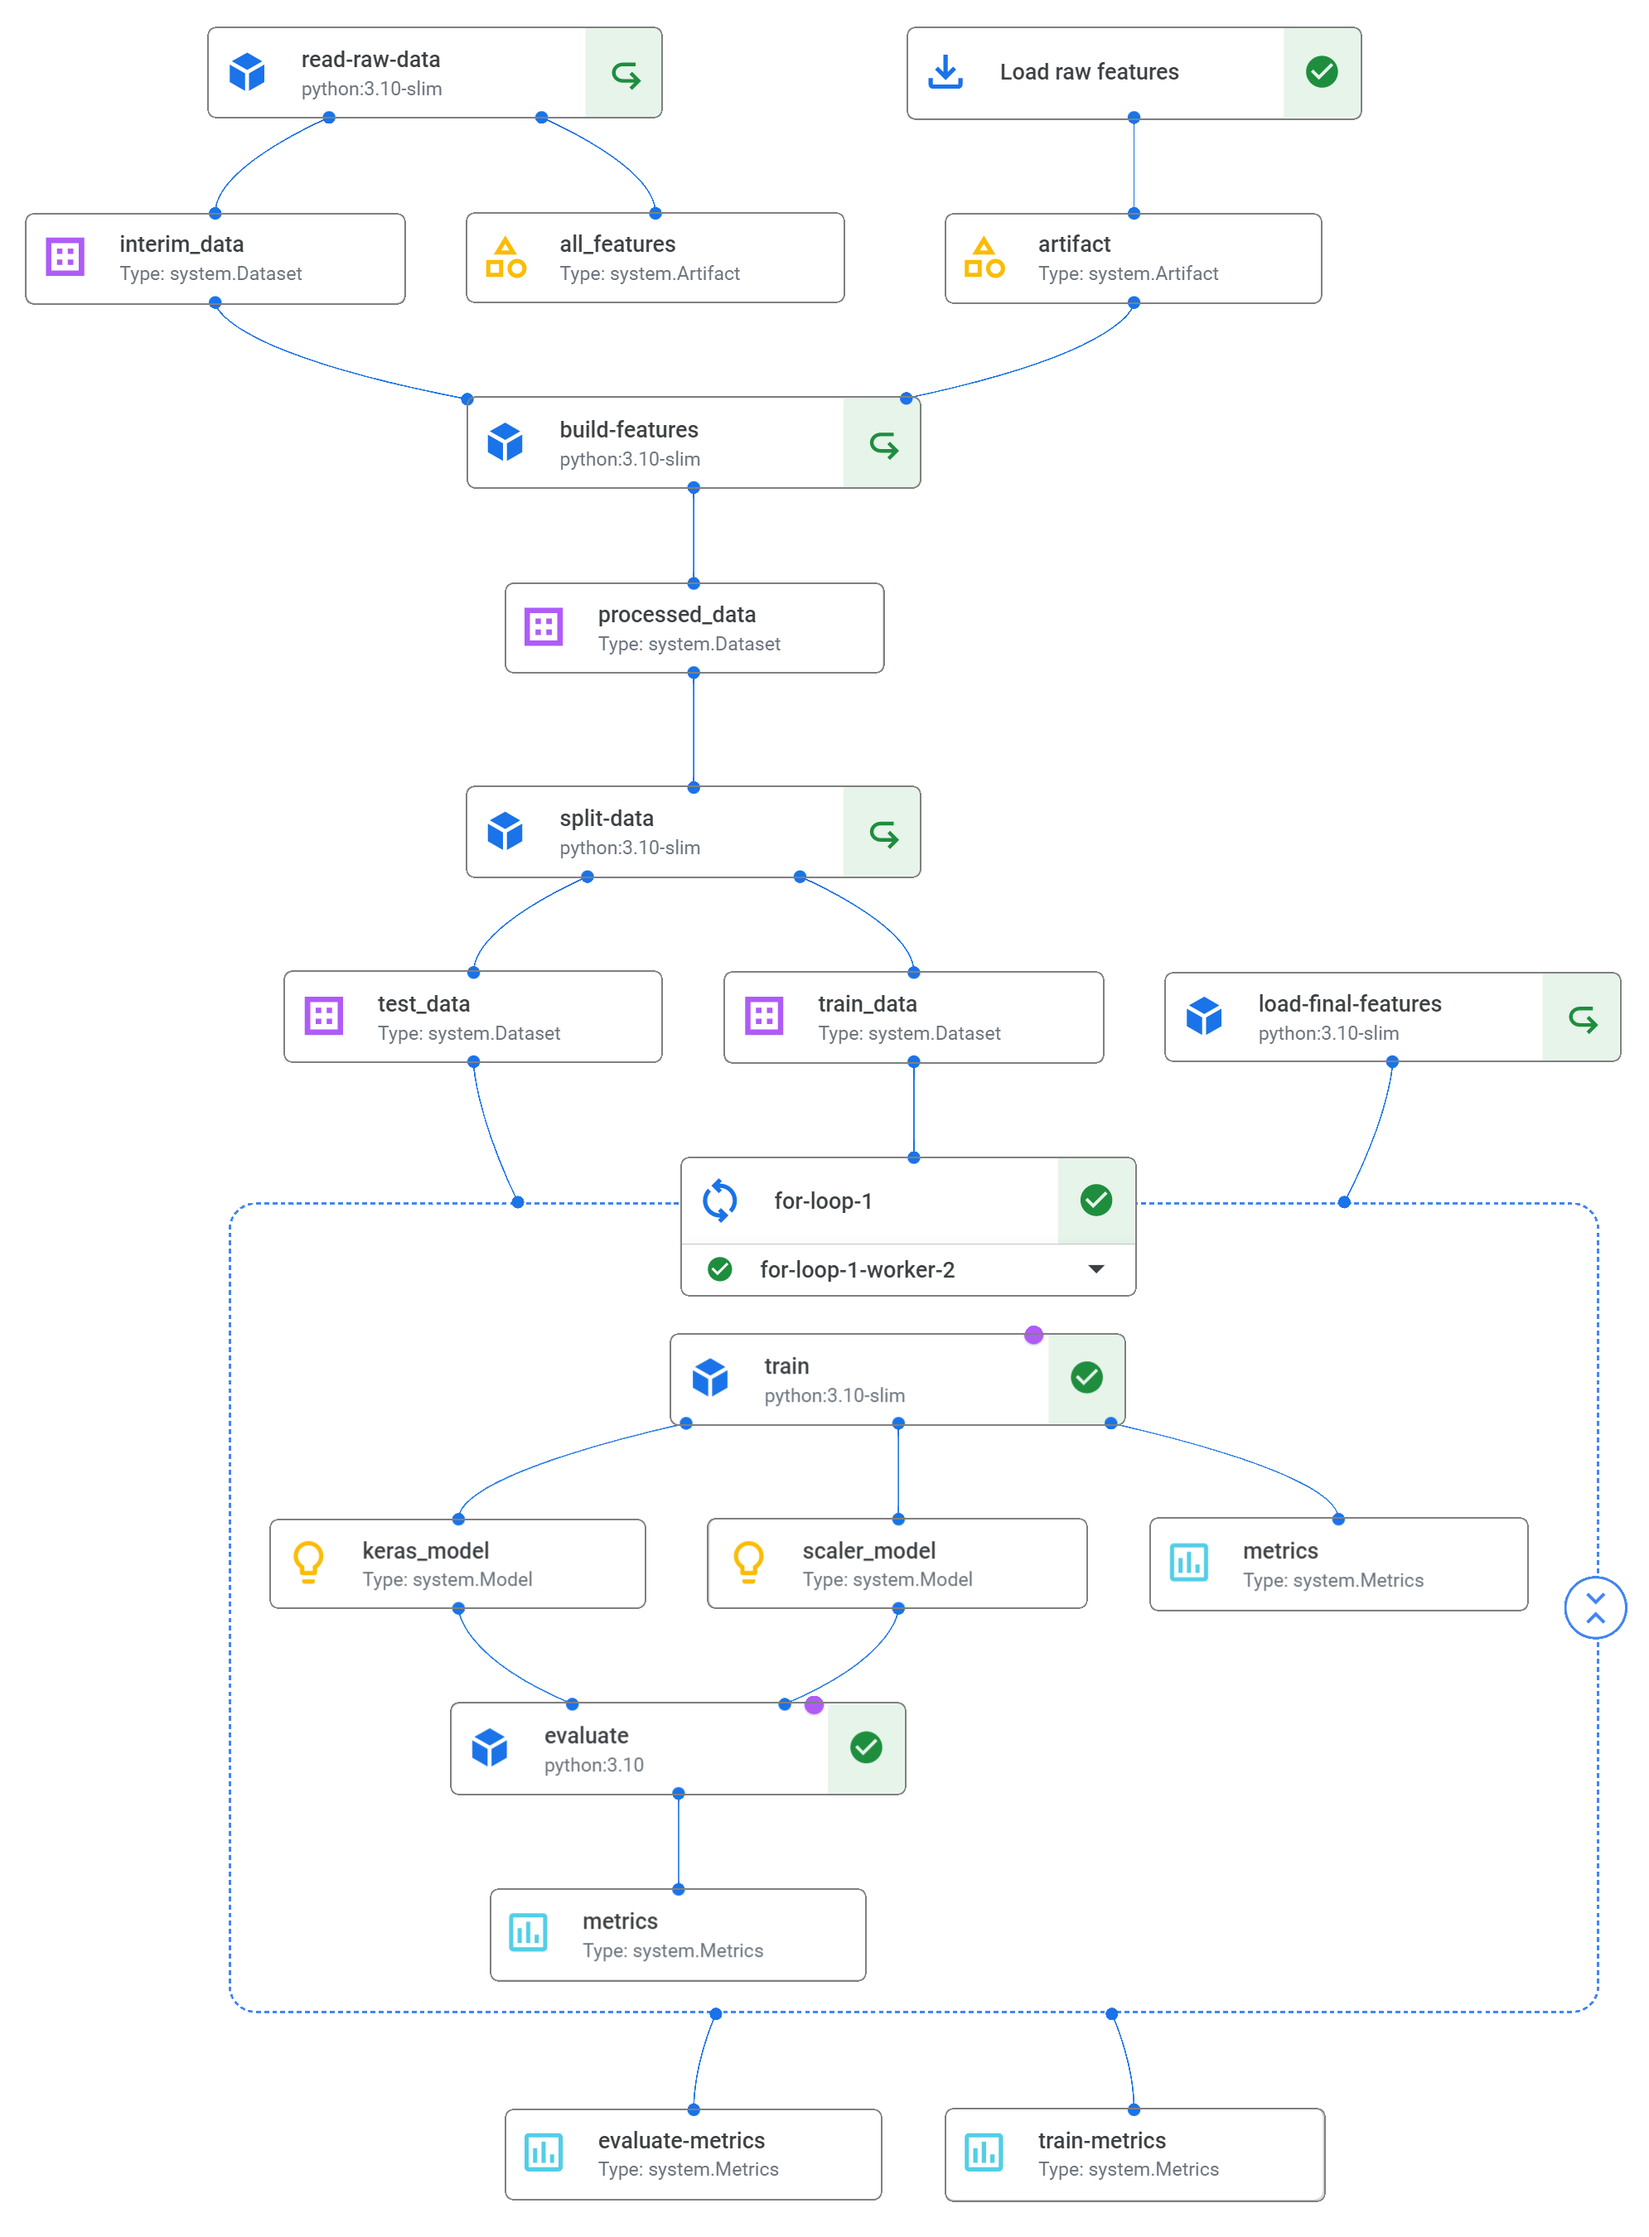
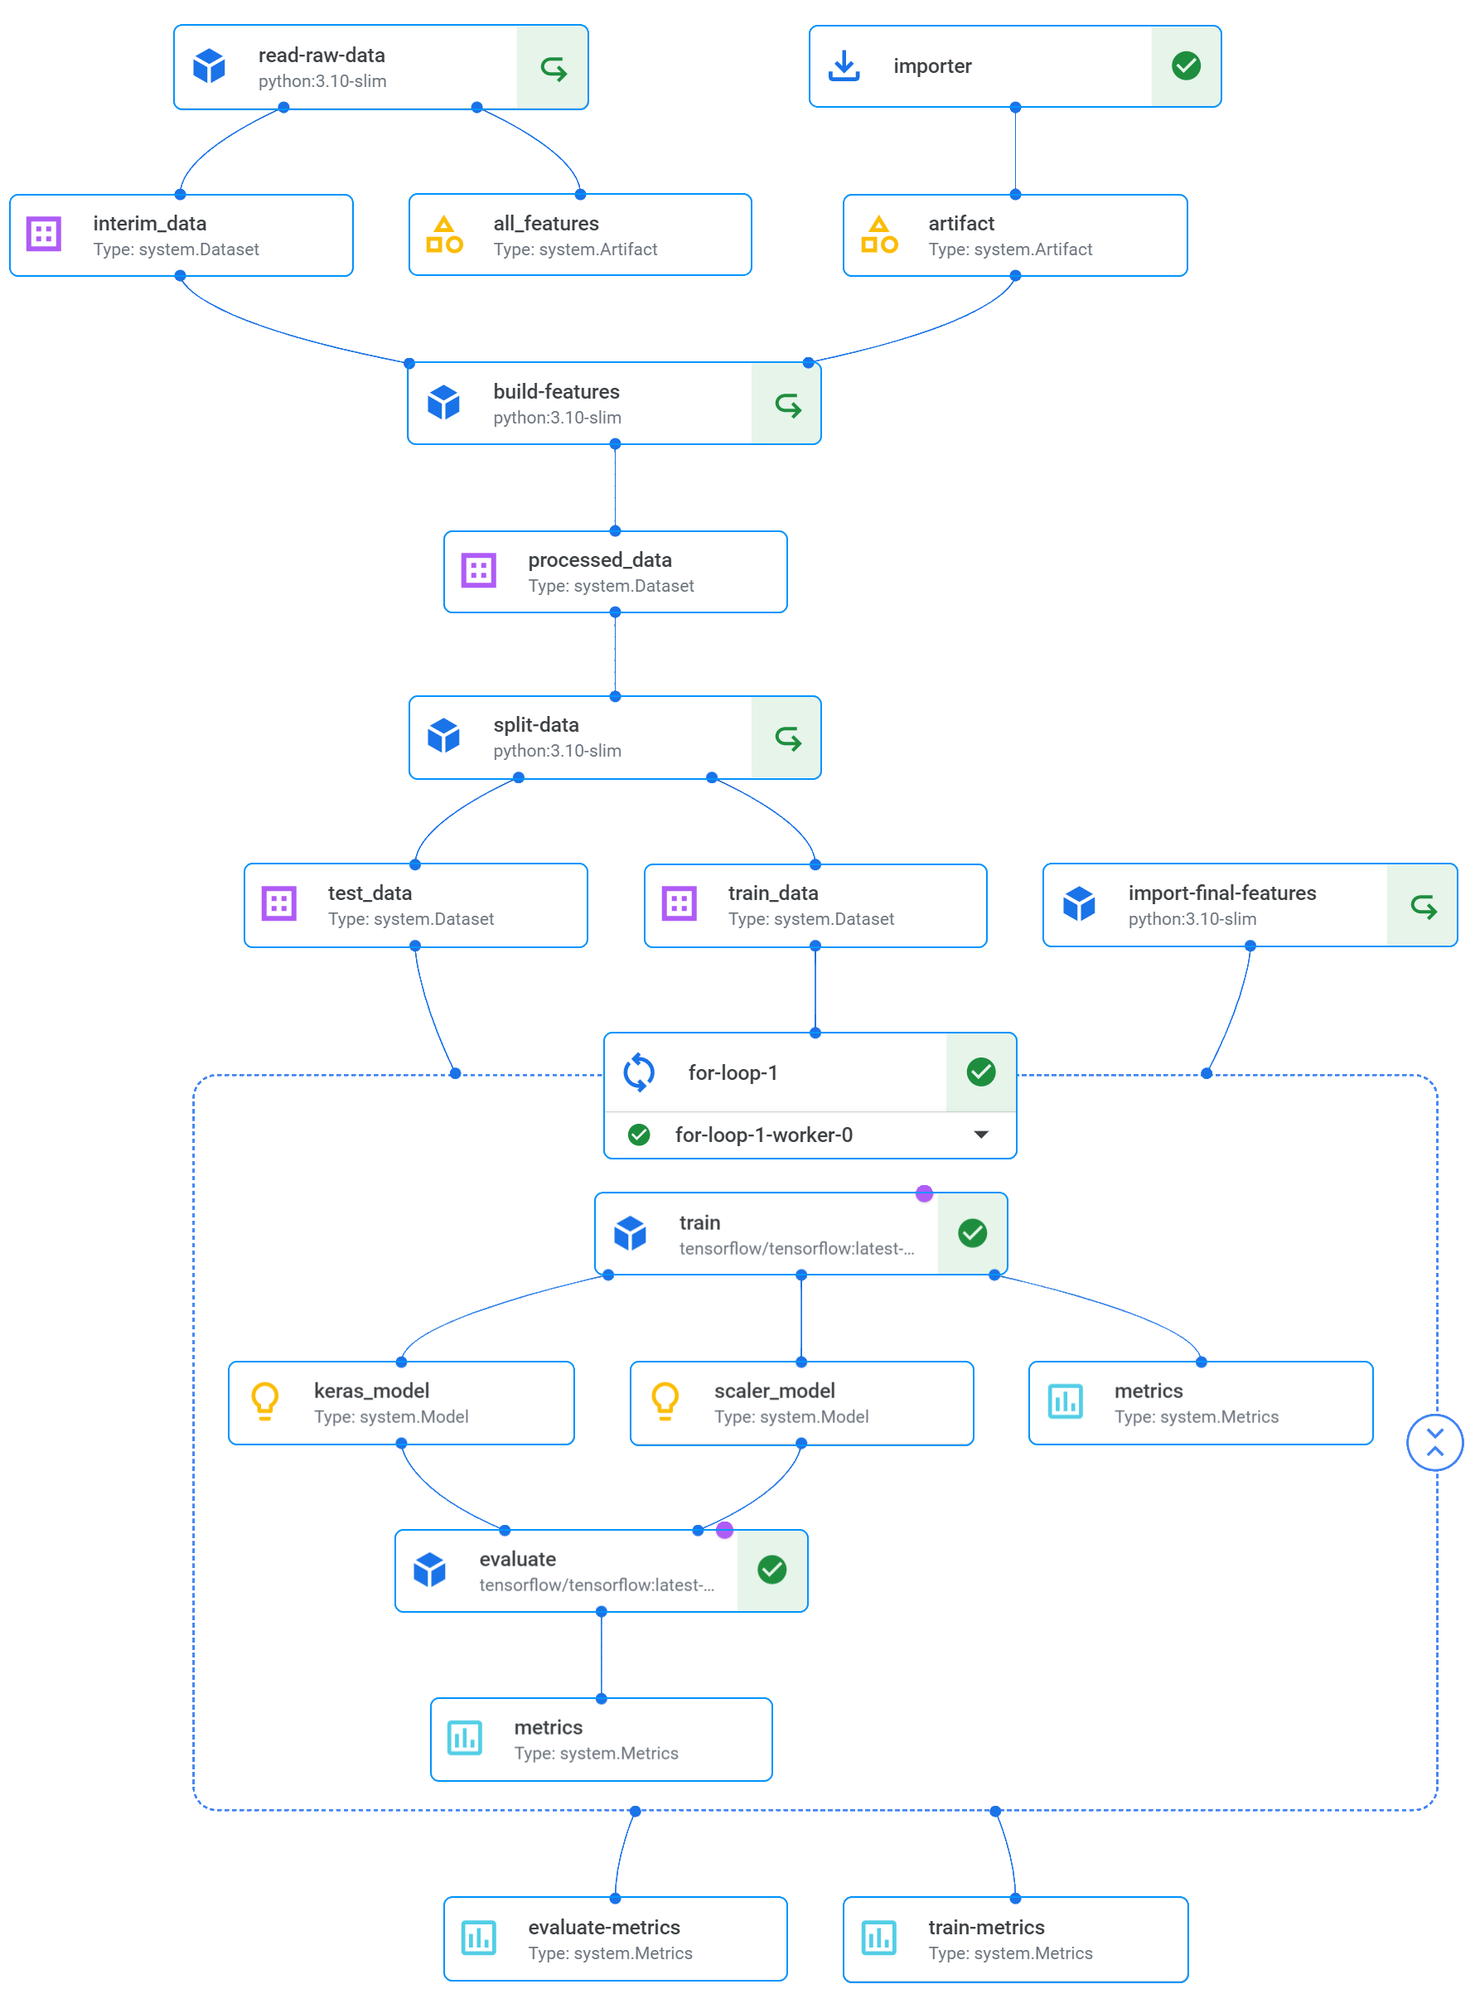
GPU enabled, models in joblib and h5, pipeline models without features in names, aip metrics added, aip models removed

diff --git a/src/components/train.py b/src/components/train.py
@@ -4,7 +4,7 @@ from kfp.v2.dsl import component, Input, Output, Dataset, Metrics, Model
 
 
 @component(
-    base_image='tensorflow/tensorflow:latest',
+    base_image='tensorflow/tensorflow:latest-gpu',
     packages_to_install=[
         'pandas',
         'scikit-learn',
@@ -51,15 +51,6 @@ def train(
     from sklearn.preprocessing import MinMaxScaler
     from tensorflow import keras
 
-    PROJECT_ID = 'test-rig-349313'
-    REGION = 'europe-west2'
-
-    SERVING_IMAGE_GPU_PREFIX = 'tf2-gpu.2-9'
-    SERVING_IMAGE_CPU_PREFIX = 'tf2-cpu.2-9'
-    SERVING_IMAGE = f'{REGION.split("-")[0]}-docker.pkg.dev/vertex-ai/prediction/{SERVING_IMAGE_CPU_PREFIX}:latest'
-
-    MODELS_BUCKET_NAME = 'models_forecasting'
-    MODELS_BUCKET_URI = f'gs://{MODELS_BUCKET_NAME}'
     TIMESTAMP = datetime.now().strftime('%Y%m%d%H%M%S')
 
     train_df = pd.read_csv(train_data.path + '.csv', index_col=False)
@@ -69,7 +60,11 @@ def train(
     scaler_model.metadata['feature'] = feature
     joblib.dump(
         scaler,
-        scaler_model.path + f'_{feature}.joblib',
+        scaler_model.path + '.joblib',
+    )
+    joblib.dump(
+        scaler,
+        os.path.join('gcs', 'models_forecasting', f'{feature}.joblib'),
     )
     x_train, y_train = [], []
     for i in range(lookback, len(scaled_train_data)):
@@ -77,7 +72,7 @@ def train(
         y_train.append(scaled_train_data[i])
     x_train = np.stack(x_train)
     y_train = np.stack(y_train)
-    forecaster = keras.models.Sequential()
+    forecaster = keras.models.Sequential(name=f'{feature}_forecaster')
     forecaster.add(
         keras.layers.LSTM(lstm_units,
                           input_shape=(x_train.shape[1], x_train.shape[2]),
@@ -128,40 +123,40 @@ def train(
         metrics.log_metric(k, history.history[k])
     metrics.metadata['feature'] = feature
     keras_model.metadata['feature'] = feature
-    forecaster.save(keras_model.path + f'_{feature}')
-    forecaster.save(os.path.join('gcs', 'models_forecasting', feature))
-    aip.init(
-        project=PROJECT_ID,
-        location=REGION,
-    )
-    models = [
-        model.display_name for model in aip.Model.list(
-            project=PROJECT_ID,
-            location=REGION,
-        )
-    ]
-    if feature not in models:
-        _ = aip.Model.upload(
-            project=PROJECT_ID,
-            location=REGION,
-            display_name=feature,
-            artifact_uri=f'{MODELS_BUCKET_URI}/{feature}',
-            serving_container_image_uri=SERVING_IMAGE,
-            is_default_version=True,
-        )
-    else:
-        for model in aip.Model.list(
-                project=PROJECT_ID,
-                location=REGION,
-        ):
-            if model.display_name == feature:
-                _ = aip.Model.upload(
-                    project=PROJECT_ID,
-                    location=REGION,
-                    parent_model=model.name,
-                    display_name=feature,
-                    artifact_uri=f'{MODELS_BUCKET_URI}/{feature}',
-                    serving_container_image_uri=SERVING_IMAGE,
-                    is_default_version=True,
-                )
-                break
+    forecaster.save(keras_model.path + '.h5')
+    forecaster.save(os.path.join('gcs', 'models_forecasting', f'{feature}.h5'))
+    # aip.init(
+    #     project=PROJECT_ID,
+    #     location=REGION,
+    # )
+    # models = [
+    #     model.display_name for model in aip.Model.list(
+    #         project=PROJECT_ID,
+    #         location=REGION,
+    #     )
+    # ]
+    # if feature not in models:
+    #     _ = aip.Model.upload(
+    #         project=PROJECT_ID,
+    #         location=REGION,
+    #         display_name=feature,
+    #         artifact_uri=f'{MODELS_BUCKET_URI}/{feature}',
+    #         serving_container_image_uri=SERVING_IMAGE,
+    #         is_default_version=True,
+    #     )
+    # else:
+    #     for model in aip.Model.list(
+    #             project=PROJECT_ID,
+    #             location=REGION,
+    #     ):
+    #         if model.display_name == feature:
+    #             _ = aip.Model.upload(
+    #                 project=PROJECT_ID,
+    #                 location=REGION,
+    #                 parent_model=model.name,
+    #                 display_name=feature,
+    #                 artifact_uri=f'{MODELS_BUCKET_URI}/{feature}',
+    #                 serving_container_image_uri=SERVING_IMAGE,
+    #                 is_default_version=True,
+    #             )
+    #             break

diff --git a/src/training.py b/src/training.py
@@ -35,7 +35,7 @@ def training_pipeline(
         processed_data=build_features_task.outputs['processed_data'])
     final_features_import = import_final_features()
     with ParallelFor(final_features_import.output) as feature:
-        train_task = train(
+        train_task = (train(
             feature=feature,
             lookback=lookback,
             lstm_units=lstm_units,
@@ -45,11 +45,11 @@ def training_pipeline(
             patience=patience,
             train_data=split_data_task.outputs['train_data'],
         )
-        # .set_cpu_limit(VCPU)\
-        # .set_memory_limit(MEMORY_LIMIT)\
-        # .add_node_selector_constraint('cloud.google.com/gke-accelerator','NVIDIA_TESLA_T4')\
-        # .set_gpu_limit(TRAIN_NGPU)\
-        evaluate_task = evaluate(
+        .set_cpu_limit(VCPU)\
+        .set_memory_limit(MEMORY_LIMIT)
+        .add_node_selector_constraint('cloud.google.com/gke-accelerator','NVIDIA_TESLA_T4')\
+        .set_gpu_limit(TRAIN_NGPU))
+        evaluate_task = (evaluate(
             feature=feature,
             lookback=lookback,
             batch_size=batch_size,
@@ -57,11 +57,10 @@ def training_pipeline(
             scaler_model=train_task.outputs['scaler_model'],
             keras_model=train_task.outputs['keras_model'],
         )
-        # .set_cpu_limit(VCPU)\
-        # .add_node_selector_constraint('cloud.google.com/gke-accelerator','NVIDIA_TESLA_T4')\
-        # .set_memory_limit(MEMORY_LIMIT)\
-        # .add_node_selector_constraint(TRAIN_GPU)\
-        # .set_gpu_limit(TRAIN_NGPU)\
+        .set_cpu_limit(VCPU)\
+        .set_memory_limit(MEMORY_LIMIT)
+        .add_node_selector_constraint('cloud.google.com/gke-accelerator','NVIDIA_TESLA_T4')\
+        .set_gpu_limit(TRAIN_NGPU))
 
 
 if __name__ == '__main__':
@@ -82,11 +81,11 @@ if __name__ == '__main__':
         parameter_values={
             'train_data_size': 0.8,
             'lookback': 120,
-            'lstm_units': 3,
-            'learning_rate': 0.1,
-            'epochs': 1,
+            'lstm_units': 5,
+            'learning_rate': 0.01,
+            'epochs': 30,
             'batch_size': 256,
-            'patience': 3
+            'patience': 5,
         },
     )
     job.run()

diff --git a/src/components/evaluate.py b/src/components/evaluate.py
@@ -4,7 +4,7 @@ from kfp.v2.dsl import Dataset, Input, Metrics, Model, Output, component
 
 
 @component(
-    base_image='tensorflow/tensorflow:latest',
+    base_image='tensorflow/tensorflow:latest-gpu',
     packages_to_install=[
         'pandas',
         'scikit-learn',
@@ -33,10 +33,12 @@ def evaluate(
         keras_model (Input[Model]): Keras model
         eval_metrics (Output[Metrics]): Metrics
     """
+    import os
     import json
     from datetime import datetime
 
     import google.cloud.aiplatform as aip
+
     import joblib
     import numpy as np
     import pandas as pd
@@ -55,7 +57,7 @@ def evaluate(
     aip.start_run(run='-'.join((EXP_NAME, TIMESTAMP)))
     test_df = pd.read_csv(test_data.path + '.csv', index_col=False)
     test_data = test_df[feature].values.reshape(-1, 1)
-    scaler = joblib.load(scaler_model.path + f'_{feature}.joblib')
+    scaler = joblib.load(scaler_model.path + '.joblib')
     scaled_test = scaler.transform(test_data)
     x_test, y_test = [], []
     for i in range(lookback, len(scaled_test)):
@@ -63,15 +65,19 @@ def evaluate(
         y_test.append(scaled_test[i])
     x_test = np.stack(x_test)
     y_test = np.stack(y_test)
-    forecaster = keras.models.load_model(keras_model.path + f'_{feature}')
+    forecaster = keras.models.load_model(keras_model.path + '.h5')
     results = forecaster.evaluate(x_test,
                                   y_test,
                                   verbose=1,
                                   batch_size=batch_size,
                                   return_dict=True)
-    with open(metrics.path + f'_{feature}.json', 'w') as metrics_file:
+    with open(metrics.path + '.json', 'w') as metrics_file:
+        metrics_file.write(json.dumps(results))
+    with open(os.path.join('gcs', 'models_forecasting', f'{feature}.json'),
+              'w') as metrics_file:
         metrics_file.write(json.dumps(results))
     for k, v in results.items():
         metrics.log_metric(k, v)
+        aip.log_metrics({k: v})        
     metrics.metadata['feature'] = feature
     aip.end_run()
